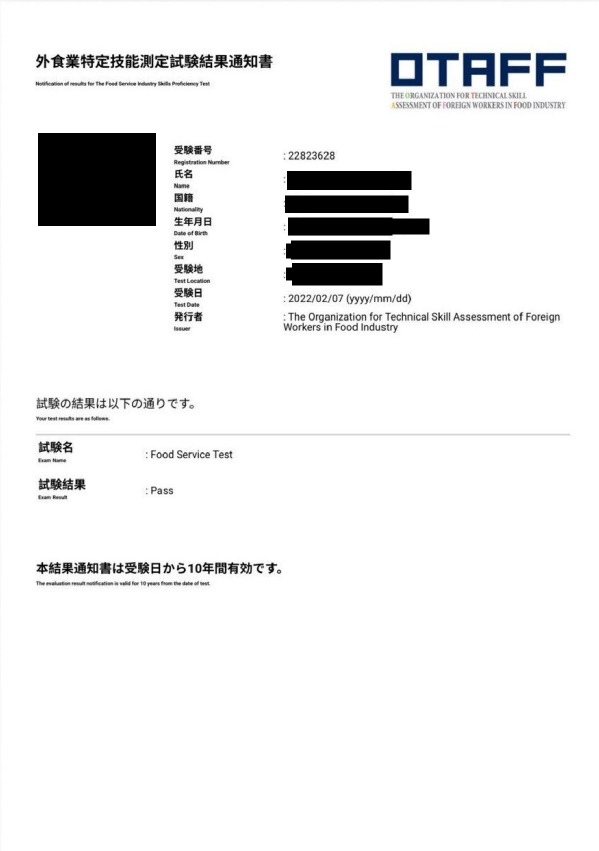
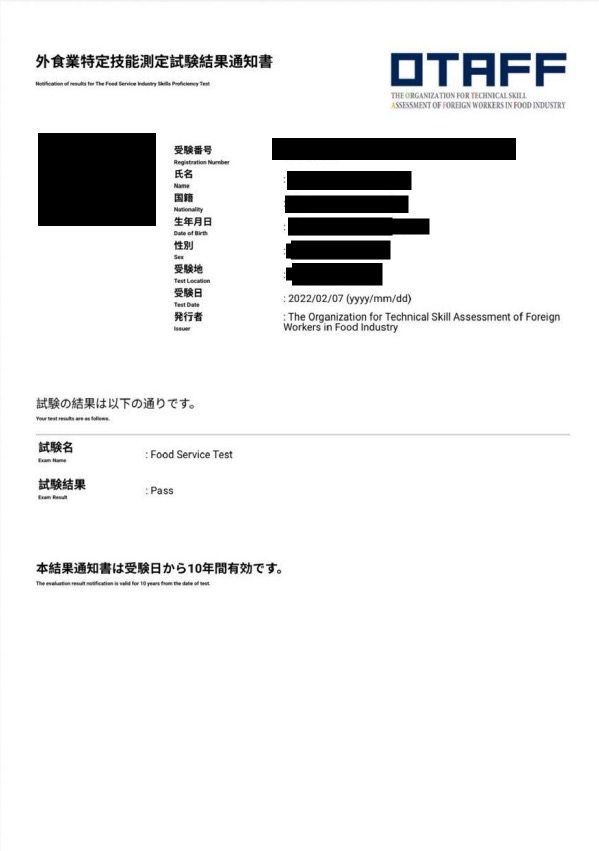
zinzai_dataup_test: 住民票スロット追加 ver.20260608.test.17 / cert_skill見本の受験番号を黒塗り

Changed region(s): [[0.4508, 0.1528, 0.8715, 0.2139]]

diff --git a/zinzai_dataup_test.html b/zinzai_dataup_test.html
@@ -124,7 +124,7 @@
   <div class="status-msg" id="statusMsg"></div>
 </div>
 <script>
-const VERSION = 'ver.20260528.test.16';
+const VERSION = 'ver.20260608.test.17';
 console.log('📄 zinzai_dataup_test.html', VERSION);
 
 // ===== 年度設定（毎年4-5月頃に更新する） =====
@@ -473,6 +473,25 @@ const DOC_SAMPLES = {
       zh: '📒 您本人保管的蓝色手册。遗失时可在年金事务所免费补发'
     }
   },
+  juminhyo: {
+    image: 'samples/juminhyo_sample.png',
+    help: {
+      ja: '世帯全員が記載された住民票（マイナンバーの記載は不要）',
+      en: 'Certificate of Residence listing all household members (without My Number)',
+      vi: 'Giấy chứng nhận cư trú ghi đầy đủ thành viên hộ gia đình (không có My Number)',
+      id: 'Surat Keterangan Domisili yang mencantumkan seluruh anggota keluarga (tanpa My Number)',
+      ko: '세대 전원이 기재된 주민표 (마이넘버 미기재)',
+      zh: '记载全体家庭成员的住民票（无需记载My Number）'
+    },
+    where: {
+      ja: '🏛 市区町村の役所、またはマイナンバーカードでコンビニで取得できます。発行から3か月以内のもの。',
+      en: '🏛 Obtain at your city/ward office, or at a convenience store with a My Number card. Issued within the last 3 months.',
+      vi: '🏛 Lấy tại văn phòng quận/thành phố, hoặc tại cửa hàng tiện lợi bằng thẻ My Number. Cấp trong vòng 3 tháng.',
+      id: '🏛 Diperoleh di kantor kota/distrik, atau di minimarket dengan kartu My Number. Diterbitkan dalam 3 bulan terakhir.',
+      ko: '🏛 시구정촌 관공서, 또는 마이넘버 카드로 편의점에서 발급. 발행 후 3개월 이내.',
+      zh: '🏛 可在市区町村政府办公室，或持My Number卡在便利店获取。需为3个月内开具。'
+    }
+  },
   embassy_rec: {
     image: 'samples/embassy_rec_sample.png',
     help: {
@@ -694,6 +713,7 @@ const ALL_DOCS = [
   {key:'transcript',tags:['成績証明書']},
   {key:'nenkin',tags:['年金手帳']},
   {key:'embassy_rec',tags:['大使館推薦票']},
+  {key:'juminhyo',tags:['住民票']},
   {key:'other',tags:[]},
 ];
 const REQUIRED_RULES = {
@@ -712,9 +732,9 @@ function isDocSkipped(doc) {
 }
 function getDocPattern() {
   const at = APP_TYPE;
-  if (at === '更新') return {zairyu_front:'required',zairyu_back:'required',passport:'required',cert_jp:'optional',cert_skill:'optional',cert_specialist:'hidden',tax_cert:'required',tax_payment:'required',withholding:'required',medical:'required',mugshot:'required',health_ins:'hidden',health_ins_cert:'hidden',graduation:'hidden',transcript:'hidden',nenkin:'hidden',embassy_rec:'optional',other:'optional'};
-  if (at === '変更') return {zairyu_front:'required',zairyu_back:'required',passport:'required',cert_jp:'required',cert_skill:'required',cert_specialist:'optional',tax_cert:'required',tax_payment:'required',withholding:'required',medical:'required',mugshot:'required',health_ins:IS_RYUGAKU?'required':'hidden',health_ins_cert:IS_RYUGAKU?'required':'hidden',graduation:IS_RYUGAKU?'required':'hidden',transcript:IS_RYUGAKU?'required':'hidden',nenkin:IS_RYUGAKU?'required':'hidden',embassy_rec:'optional',other:'optional'};
-  if (at === '認定') return {zairyu_front:'hidden',zairyu_back:'hidden',passport:'required',cert_jp:'required',cert_skill:'required',cert_specialist:'optional',tax_cert:'hidden',tax_payment:'hidden',withholding:'hidden',medical:'required',mugshot:'required',health_ins:IS_RYUGAKU?'required':'hidden',health_ins_cert:IS_RYUGAKU?'required':'hidden',graduation:IS_RYUGAKU?'required':'hidden',transcript:IS_RYUGAKU?'required':'hidden',nenkin:IS_RYUGAKU?'required':'hidden',embassy_rec:'optional',other:'optional'};
+  if (at === '更新') return {zairyu_front:'required',zairyu_back:'required',passport:'required',cert_jp:'optional',cert_skill:'optional',cert_specialist:'hidden',tax_cert:'required',tax_payment:'required',withholding:'required',medical:'required',mugshot:'required',health_ins:'hidden',health_ins_cert:'hidden',graduation:'hidden',transcript:'hidden',nenkin:'hidden',embassy_rec:'optional',juminhyo:'optional',other:'optional'};
+  if (at === '変更') return {zairyu_front:'required',zairyu_back:'required',passport:'required',cert_jp:'required',cert_skill:'required',cert_specialist:'optional',tax_cert:'required',tax_payment:'required',withholding:'required',medical:'required',mugshot:'required',health_ins:IS_RYUGAKU?'required':'hidden',health_ins_cert:IS_RYUGAKU?'required':'hidden',graduation:IS_RYUGAKU?'required':'hidden',transcript:IS_RYUGAKU?'required':'hidden',nenkin:IS_RYUGAKU?'required':'hidden',embassy_rec:'optional',juminhyo:'optional',other:'optional'};
+  if (at === '認定') return {zairyu_front:'hidden',zairyu_back:'hidden',passport:'required',cert_jp:'required',cert_skill:'required',cert_specialist:'optional',tax_cert:'hidden',tax_payment:'hidden',withholding:'hidden',medical:'required',mugshot:'required',health_ins:IS_RYUGAKU?'required':'hidden',health_ins_cert:IS_RYUGAKU?'required':'hidden',graduation:IS_RYUGAKU?'required':'hidden',transcript:IS_RYUGAKU?'required':'hidden',nenkin:IS_RYUGAKU?'required':'hidden',embassy_rec:'optional',juminhyo:'optional',other:'optional'};
   return Object.fromEntries(ALL_DOCS.map(d => [d.key,'optional']));
 }
 function getRequiredTags() {
@@ -760,18 +780,18 @@ function _initDocKeys(){
 _initDocKeys();
 
 const LANGS = {
-  ja:{label:'日本語',title:'書類アップロード',subtitle:'必要な書類の写真をアップロードしてください\n（不要な項目はスキップできます）',tapToAdd:'📷 タップして写真を追加',hint:'JPG / PNG / PDF',btnSubmit:'送信する',noFile:'未選択',selected:'選択済み ✓',msgSuccess:'✅ アップロード完了しました！\n担当者に届きました。',msgError:'❌ 送信に失敗しました。\nもう一度お試しください。',msgNoFile:'少なくとも1枚の写真を選択してください',docs:{zairyu_front:'在留カード（表）',zairyu_back:'在留カード（裏）',passport:'パスポート',cert_jp:'合格証（日本語）',cert_skill:'合格証（技能試験）',cert_specialist:'合格証（専門級・3級）',tax_payment:'納税証明書（令和7年度）',tax_cert:'課税証明書（令和7年度）',withholding:'源泉徴収票（令和6年分）',medical:'健康診断証',mugshot:'顔写真',health_ins:'健康保険証',health_ins_cert:'国民健康保険料納付証明書',graduation:'卒業証明書',transcript:'成績証明書',nenkin:'年金手帳',embassy_rec:'大使館推薦票',other:'その他'}},
+  ja:{label:'日本語',title:'書類アップロード',subtitle:'必要な書類の写真をアップロードしてください\n（不要な項目はスキップできます）',tapToAdd:'📷 タップして写真を追加',hint:'JPG / PNG / PDF',btnSubmit:'送信する',noFile:'未選択',selected:'選択済み ✓',msgSuccess:'✅ アップロード完了しました！\n担当者に届きました。',msgError:'❌ 送信に失敗しました。\nもう一度お試しください。',msgNoFile:'少なくとも1枚の写真を選択してください',docs:{zairyu_front:'在留カード（表）',zairyu_back:'在留カード（裏）',passport:'パスポート',cert_jp:'合格証（日本語）',cert_skill:'合格証（技能試験）',cert_specialist:'合格証（専門級・3級）',tax_payment:'納税証明書（令和7年度）',tax_cert:'課税証明書（令和7年度）',withholding:'源泉徴収票（令和6年分）',medical:'健康診断証',mugshot:'顔写真',health_ins:'健康保険証',health_ins_cert:'国民健康保険料納付証明書',graduation:'卒業証明書',transcript:'成績証明書',nenkin:'年金手帳',embassy_rec:'大使館推薦票',juminhyo:'住民票',other:'その他'}},
   en:{label:'English',title:'Document Upload',subtitle:'Please upload photos of required documents\n(You can skip items that are not needed)',tapToAdd:'📷 Tap to add photo',hint:'JPG / PNG / PDF',btnSubmit:'Submit',noFile:'Not selected',selected:'Selected ✓',msgSuccess:'✅ Upload complete!\nYour documents have been received.',msgError:'❌ Upload failed.\nPlease try again.',msgNoFile:'Please select at least one photo',docs:{zairyu_front:'Residence Card (Front)',zairyu_back:'Residence Card (Back)',passport:'Passport',cert_jp:'Certificate (Japanese)',cert_skill:'Certificate (Skills Test)',cert_specialist:'Certificate (Specialist/Level 3)',tax_payment:'Tax Payment Certificate (FY 2025)',tax_cert:'Taxation Certificate (FY 2025)',withholding:'Withholding Tax Statement (Year 2024)',medical:'Medical Certificate',mugshot:'Photo',health_ins:'Health Insurance Card',health_ins_cert:'National Health Insurance Payment Certificate',graduation:'Graduation Certificate',transcript:'Academic Transcript',nenkin:'Pension Booklet',embassy_rec:'Embassy Recommendation Letter',other:'Other'}},
-  vi:{label:'Tiếng Việt',title:'Tải lên tài liệu',subtitle:'Vui lòng tải ảnh các tài liệu cần thiết\n(Có thể bỏ qua các mục không cần thiết)',tapToAdd:'📷 Nhấn để thêm ảnh',hint:'JPG / PNG / PDF',btnSubmit:'Gửi',noFile:'Chưa chọn',selected:'Đã chọn ✓',msgSuccess:'✅ Tải lên thành công!\nTài liệu của bạn đã được nhận.',msgError:'❌ Tải lên thất bại.\nVui lòng thử lại.',msgNoFile:'Vui lòng chọn ít nhất một ảnh',docs:{zairyu_front:'Thẻ cư trú (Mặt trước)',zairyu_back:'Thẻ cư trú (Mặt sau)',passport:'Hộ chiếu',cert_jp:'Chứng chỉ (Tiếng Nhật)',cert_skill:'Chứng chỉ (Kỳ thi kỹ năng)',cert_specialist:'Chứng chỉ (Chuyên ngành/Cấp 3)',tax_payment:'Giấy chứng nhận nộp thuế (Năm 2025)',tax_cert:'Giấy chứng nhận thuế (Năm 2025)',withholding:'Phiếu khấu trừ thuế (Năm 2024)',medical:'Giấy khám sức khỏe',mugshot:'Ảnh',health_ins:'Thẻ bảo hiểm y tế',health_ins_cert:'Chứng nhận đóng bảo hiểm y tế',graduation:'Bằng tốt nghiệp',transcript:'Bảng điểm',nenkin:'Sổ hưu trí',embassy_rec:'大使館推薦票',other:'Khác'}},
-  id:{label:'Indonesia',title:'Unggah Dokumen',subtitle:'Silakan unggah foto dokumen yang diperlukan\n(Item yang tidak diperlukan dapat dilewati)',tapToAdd:'📷 Ketuk untuk menambah foto',hint:'JPG / PNG / PDF',btnSubmit:'Kirim',noFile:'Belum dipilih',selected:'Dipilih ✓',msgSuccess:'✅ Unggah berhasil!\nDokumen Anda telah diterima.',msgError:'❌ Unggah gagal.\nSilakan coba lagi.',msgNoFile:'Silakan pilih setidaknya satu foto',docs:{zairyu_front:'Kartu Izin Tinggal (Depan)',zairyu_back:'Kartu Izin Tinggal (Belakang)',passport:'Paspor',cert_jp:'Sertifikat (Bahasa Jepang)',cert_skill:'Sertifikat (Uji Keterampilan)',cert_specialist:'Sertifikat (Spesialis/Level 3)',tax_payment:'Bukti Pembayaran Pajak (Tahun 2025)',tax_cert:'Surat Keterangan Pajak (Tahun 2025)',withholding:'Slip Pemotongan Pajak (Tahun 2024)',medical:'Sertifikat Kesehatan',mugshot:'Foto',health_ins:'Kartu Asuransi Kesehatan',health_ins_cert:'Sertifikat Pembayaran Asuransi Kesehatan',graduation:'Ijazah',transcript:'Transkrip Nilai',nenkin:'Buku Pensiun',embassy_rec:'大使館推薦票',other:'Lainnya'}},
-  my:{label:'မြန်မာ',title:'စာရွက်စာတမ်းတင်ရန်',subtitle:'လိုအပ်သောစာရွက်စာတမ်းများ၏ဓာတ်ပုံတင်ပါ\n(မလိုအပ်သောအရာများကိုကျော်နိုင်သည်)',tapToAdd:'📷 ဓာတ်ပုံထည့်ရန်နှိပ်ပါ',hint:'JPG / PNG / PDF',btnSubmit:'ပေးပို့ရန်',noFile:'မရွေးချယ်ရသေး',selected:'ရွေးချယ်ပြီး ✓',msgSuccess:'✅ တင်ခြင်းအောင်မြင်သည်!\nသင့်စာရွက်စာတမ်းကိုလက်ခံရရှိပြီ။',msgError:'❌ တင်ခြင်းမအောင်မြင်ပါ။\nထပ်မံကြိုးစားပါ။',msgNoFile:'ဓာတ်ပုံတစ်ပုံရွေးချယ်ပါ',docs:{zairyu_front:'နေထိုင်ခွင့်ကတ် (ရှေ့ဘက်)',zairyu_back:'နေထိုင်ခွင့်ကတ် (နောက်ဘက်)',passport:'နိုင်ငံကူးလက်မှတ်',cert_jp:'လက်မှတ် (ဂျပန်ဘာသာ)',cert_skill:'လက်မှတ် (ကျွမ်းကျင်မှုစာမေးပွဲ)',cert_specialist:'လက်မှတ် (ကျွမ်းကျင်ရည်မှန်း/အဆင့် 3)',tax_payment:'အခွန်ပေးဆောင်မှုသက်သေခံ (၂၀၂၅)',tax_cert:'အခွန်သက်သေခံလက်မှတ် (၂၀၂၅)',withholding:'အခွန်နုတ်ယူသည့်ဖော်ပြချက် (၂၀၂၄)',medical:'ကျန်းမာရေးသက်သေခံ',mugshot:'ဒာတ်ပုံ',health_ins:'ကျန်မာရေးကာတ်',health_ins_cert:'မှတ်တမ်',graduation:'ဘွဲ့လက်မှတ်',transcript:'ကျောင်းမှတ်တမ်း',nenkin:'年金手帳',embassy_rec:'大使館推薦票',other:'အခြား'}},
-  ko:{label:'한국어',title:'서류 업로드',subtitle:'필요한 서류의 사진을 업로드해 주세요\n(불필요한 항목은 건너뛸 수 있습니다)',tapToAdd:'📷 탭하여 사진 추가',hint:'JPG / PNG / PDF',btnSubmit:'제출',noFile:'미선택',selected:'선택됨 ✓',msgSuccess:'✅ 업로드 완료!\n담당자에게 전달되었습니다.',msgError:'❌ 업로드 실패.\n다시 시도해 주세요.',msgNoFile:'사진을 최소 한 장 선택해 주세요',docs:{zairyu_front:'재류카드 (앞면)',zairyu_back:'재류카드 (뒷면)',passport:'여권',cert_jp:'합격증 (일본어)',cert_skill:'합격증 (기능시험)',cert_specialist:'합격증 (전문급·3급)',tax_payment:'납세증명서 (2025년도)',tax_cert:'과세증명서 (2025년도)',withholding:'원천징수영수증 (2024년분)',medical:'건강진단서',mugshot:'사진',health_ins:'건강보험증',health_ins_cert:'국민건강보험료 납부증명서',graduation:'졸업증명서',transcript:'성적증명서',nenkin:'연금수첩',embassy_rec:'大使館推薦票',other:'기타'}},
-  ne:{label:'नेपाली',title:'कागजात अपलोड',subtitle:'आवश्यक कागजातको फोटो अपलोड गर्नुहोस्\n(अनावश्यक वस्तुहरू छोड्न सकिन्छ)',tapToAdd:'📷 फोटो थप्न थिच्नुहोस्',hint:'JPG / PNG / PDF',btnSubmit:'पेश गर्नुहोस्',noFile:'छनोट गरिएको छैन',selected:'छनोट भयो ✓',msgSuccess:'✅ अपलोड सफल भयो!\nतपाईंको कागजात प्राप्त भयो।',msgError:'❌ अपलोड असफल भयो।\nपुनः प्रयास गर्नुहोस्।',msgNoFile:'कम्तीमा एउटा फोटो छनोट गर्नुहोस्',docs:{zairyu_front:'आवास कार्ड (अगाडि)',zairyu_back:'आवास कार्ड (पछाडि)',passport:'राहदानी',cert_jp:'प्रमाणपत्र (जापानी भाषा)',cert_skill:'प्रमाणपत्र (सीप परीक्षण)',cert_specialist:'प्रमाणपत्र (विशेषज्ञ/स्तर ३)',tax_payment:'कर तिरेको प्रमाणपत्र (आ.व. 2025)',tax_cert:'कर प्रमाणपत्र (आ.व. 2025)',withholding:'स्रोतमा कर कटौती विवरण (सन् 2024)',medical:'स्वास्थ्य परीक्षण प्रमाणपत्र',mugshot:'फोटो',health_ins:'स्वास्थ्य बिमा कार्ड',health_ins_cert:'राष्ट्रिय स्वास्थ्य बिमा भुक्तानी प्रमाणपत्र',graduation:'उपाधि',transcript:'अङ्कतालिका',nenkin:'年金手帳',embassy_rec:'大使館推薦票',other:'अन्य'}},
-  zh:{label:'中文',title:'文件上传',subtitle:'请上传所需文件的照片\n（不需要的项目可以跳过）',tapToAdd:'📷 点击添加照片',hint:'JPG / PNG / PDF',btnSubmit:'提交',noFile:'未选择',selected:'已选择 ✓',msgSuccess:'✅ 上传成功！\n您的文件已收到。',msgError:'❌ 上传失败。\n请重试。',msgNoFile:'请至少选择一张照片',docs:{zairyu_front:'居留卡（正面）',zairyu_back:'居留卡（背面）',passport:'护照',cert_jp:'合格证（日语）',cert_skill:'合格证（技能考试）',cert_specialist:'合格证（专项级·3级）',tax_payment:'纳税证明（令和7年度）',tax_cert:'课税证明（令和7年度）',withholding:'扣缴凭证（令和6年）',medical:'健康诊断证明',mugshot:'照片',health_ins:'健康保险证',health_ins_cert:'国民健康保险缴费证明',graduation:'毕业证明书',transcript:'成绩单',nenkin:'年金手帳',embassy_rec:'大使館推薦票',other:'其他'}},
-  th:{label:'ไทย',title:'อัปโหลดเอกสาร',subtitle:'กรุณาอัปโหลดรูปภาพเอกสารที่จำเป็น\n(สามารถข้ามรายการที่ไม่จำเป็นได้)',tapToAdd:'📷 แตะเพื่อเพิ่มรูปภาพ',hint:'JPG / PNG / PDF',btnSubmit:'ส่ง',noFile:'ยังไม่ได้เลือก',selected:'เลือกแล้ว ✓',msgSuccess:'✅ อัปโหลดสำเร็จ!\nได้รับเอกสารของคุณแล้ว',msgError:'❌ อัปโหลดล้มเหลว\nกรุณาลองใหม่อีกครั้ง',msgNoFile:'กรุณาเลือกรูปภาพอย่างน้อยหนึ่งภาพ',docs:{zairyu_front:'บัตรถิ่นที่อยู่ (ด้านหน้า)',zairyu_back:'บัตรถิ่นที่อยู่ (ด้านหลัง)',passport:'หนังสือเดินทาง',cert_jp:'ใบรับรอง (ภาษาญี่ปุ่น)',cert_skill:'ใบรับรอง (การสอบทักษะ)',cert_specialist:'ใบรับรอง (ผู้เชี่ยวชาญ/ระดับ 3)',tax_payment:'ใบรับรองการชำระภาษี (ปี 2025)',tax_cert:'ใบรับรองภาษี (ปี 2025)',withholding:'ใบหักภาษี ณ ที่จ่าย (ปี 2024)',medical:'ใบรับรองสุขภาพ',mugshot:'รูปถ่าย',health_ins:'บัตรประกันสุขภาพ',health_ins_cert:'ใบรับรองการชำระประกันสุขภาพ',graduation:'ใบประกาศนียบัตร',transcript:'ผลการเรียน',nenkin:'สมุดบัญชีเงินบำนาญชรา',embassy_rec:'大使館推薦票',other:'อื่นๆ'}},
-  km:{label:'ខ្មែរ',title:'បង្ហោះឯកសារ',subtitle:'សូមបង្ហោះរូបថតឯកសារដែលត្រូវការ\n(អ្នកអាចរំលងធាតុដែលមិនចាំបាច់)',tapToAdd:'📷 ចុចដើម្បីបន្ថែមរូបថត',hint:'JPG / PNG / PDF',btnSubmit:'បញ្ជូន',noFile:'មិនទាន់ជ្រើសរើស',selected:'បានជ្រើសរើស ✓',msgSuccess:'✅ បង្ហោះបានជោគជ័យ!\nឯកសាររបស់អ្នកត្រូវបានទទួល។',msgError:'❌ បង្ហោះបានបរាជ័យ។\nសូមព្យាយាមម្តងទៀត។',msgNoFile:'សូមជ្រើសរើសរូបថតយ៉ាងហោចណាស់មួយ',docs:{zairyu_front:'កាតស្នាក់នៅ (ខាងមុខ)',zairyu_back:'កាតស្នាក់នៅ (ខាងក្រោយ)',passport:'លិខិតឆ្លងដែន',cert_jp:'វិញ្ញាបនបត្រ (ភាសាជប៉ុន)',cert_skill:'វិញ្ញាបនបត្រ (ការប្រឡងជំនាញ)',cert_specialist:'វិញ្ញាបនបត្រ (ថ្នាក់ជំនាញ/កម្រិត 3)',tax_payment:'វិញ្ញាបនបត្របង់ពន្ធ (2025)',tax_cert:'វិញ្ញាបនបត្រពន្ធ (2025)',withholding:'លិខិតកាត់ពន្ធ (2024)',medical:'វិញ្ញាបនបត្រសុខភាព',mugshot:'រូបថត',health_ins:'កាតប្រកញសុខភាព',health_ins_cert:'វិញ្ញាបនបត្របង់ប្រកញសុខ',graduation:'សញ្ញាបត្រ',transcript:'លត្តផល',nenkin:'年金手帳',embassy_rec:'大使館推薦票',other:'ផ្សេងទៀត'}},
-  mn:{label:'Монгол',title:'Баримт бичиг байршуулах',subtitle:'Шаардлагатай баримт бичгийн зургийг байршуулна уу\n(Шаардлагагүй зүйлийг алгасаж болно)',tapToAdd:'📷 Зураг нэмэхийн тулд дарна уу',hint:'JPG / PNG / PDF',btnSubmit:'Илгээх',noFile:'Сонгоогүй',selected:'Сонгосон ✓',msgSuccess:'✅ Байршуулалт амжилттай!\nТаны баримт бичиг хүлээн авагдлаа.',msgError:'❌ Илгээхэд алдаа гарлаа.\nДахин оролдоно уу.',msgNoFile:'Дор хаяж нэг зураг сонгоно уу',docs:{zairyu_front:'Оршин суух карт (Урд тал)',zairyu_back:'Оршин суух карт (Арын тал)',passport:'Паспорт',cert_jp:'Гэрчилгээ (Япон хэл)',cert_skill:'Гэрчилгээ (Ур чадварын шалгалт)',cert_specialist:'Гэрчилгээ (Мэргэжлийн/3-р түвшин)',tax_payment:'Татвар төлсний гэрчилгээ (2025)',tax_cert:'Татварын гэрчилгээ (2025)',withholding:'Татварын тодорхойлолт (2024)',medical:'Эрүүл мэндийн гэрчилгээ',mugshot:'Зураг',health_ins:'Даатгалын карт',health_ins_cert:'Даатгалын төлбөрийн тодорхойлолт',graduation:'Дипломын гэрчилгээ',transcript:'Дүнгийн гэрчилгээ',nenkin:'Тэтгэврийн дэвтэр',embassy_rec:'大使館推薦票',other:'Бусад'}},
-  si:{label:'සිංහල',title:'ලේඛන උඩුගත කිරීම',subtitle:'අවශ්ය ලේඛනවල ඡායාරූප උඩුගත කරන්න\n(අනවශ්ය අයිතම මඟ හැරිය හැකිය)',tapToAdd:'📷 ඡායාරූප එකතු කිරීමට තට්ටු කරන්න',hint:'JPG / PNG / PDF',btnSubmit:'යොමු කරන්න',noFile:'තෝරා නැත',selected:'තෝරා ඇත ✓',msgSuccess:'✅ උඩුගත කිරීම සාර්ථකයි!\nඔබේ ලේඛන ලැබී ඇත.',msgError:'❌ උඩුගත කිරීම අසාර්ථකයි.\nනැවත උත්සාහ කරන්න.',msgNoFile:'අවම වශයෙන් ඡායාරූපයක් තෝරන්න',docs:{zairyu_front:'පදිංචිකාර්ඩ් (ඉදිරිපස)',zairyu_back:'පදිංචිකාර්ඩ් (පිටුපස)',passport:'ගමන් බලපත්රය',cert_jp:'සහතිකය (ජපන් භාෂාව)',cert_skill:'සහතිකය (කුසලතා විභාගය)',cert_specialist:'සහතිකය (විශේෂඥ/මට්ටම 3)',tax_payment:'බදු ගෙවීමේ සහතිකය (2025)',tax_cert:'බදු සහතිකය (2025)',withholding:'රඳවා ගත් බදු ප්රකාශය (2024)',medical:'වෛද්ය සහතිකය',mugshot:'ජායාරූපය',health_ins:'සෞඛ්ය රක්ෂණ කාඩ්පත',health_ins_cert:'ජාතික සෞඛ්ය රක්ෂණ ගෙවීම් සහතිකය',graduation:'උපාධි සහතිකය',transcript:'ශ්රේණි ලිපිය',nenkin:'විශ්රාම වේතන පොත',embassy_rec:'大使館推薦票',other:'වෙනත්'}},
+  vi:{label:'Tiếng Việt',title:'Tải lên tài liệu',subtitle:'Vui lòng tải ảnh các tài liệu cần thiết\n(Có thể bỏ qua các mục không cần thiết)',tapToAdd:'📷 Nhấn để thêm ảnh',hint:'JPG / PNG / PDF',btnSubmit:'Gửi',noFile:'Chưa chọn',selected:'Đã chọn ✓',msgSuccess:'✅ Tải lên thành công!\nTài liệu của bạn đã được nhận.',msgError:'❌ Tải lên thất bại.\nVui lòng thử lại.',msgNoFile:'Vui lòng chọn ít nhất một ảnh',docs:{zairyu_front:'Thẻ cư trú (Mặt trước)',zairyu_back:'Thẻ cư trú (Mặt sau)',passport:'Hộ chiếu',cert_jp:'Chứng chỉ (Tiếng Nhật)',cert_skill:'Chứng chỉ (Kỳ thi kỹ năng)',cert_specialist:'Chứng chỉ (Chuyên ngành/Cấp 3)',tax_payment:'Giấy chứng nhận nộp thuế (Năm 2025)',tax_cert:'Giấy chứng nhận thuế (Năm 2025)',withholding:'Phiếu khấu trừ thuế (Năm 2024)',medical:'Giấy khám sức khỏe',mugshot:'Ảnh',health_ins:'Thẻ bảo hiểm y tế',health_ins_cert:'Chứng nhận đóng bảo hiểm y tế',graduation:'Bằng tốt nghiệp',transcript:'Bảng điểm',nenkin:'Sổ hưu trí',embassy_rec:'大使館推薦票',juminhyo:'住民票',other:'Khác'}},
+  id:{label:'Indonesia',title:'Unggah Dokumen',subtitle:'Silakan unggah foto dokumen yang diperlukan\n(Item yang tidak diperlukan dapat dilewati)',tapToAdd:'📷 Ketuk untuk menambah foto',hint:'JPG / PNG / PDF',btnSubmit:'Kirim',noFile:'Belum dipilih',selected:'Dipilih ✓',msgSuccess:'✅ Unggah berhasil!\nDokumen Anda telah diterima.',msgError:'❌ Unggah gagal.\nSilakan coba lagi.',msgNoFile:'Silakan pilih setidaknya satu foto',docs:{zairyu_front:'Kartu Izin Tinggal (Depan)',zairyu_back:'Kartu Izin Tinggal (Belakang)',passport:'Paspor',cert_jp:'Sertifikat (Bahasa Jepang)',cert_skill:'Sertifikat (Uji Keterampilan)',cert_specialist:'Sertifikat (Spesialis/Level 3)',tax_payment:'Bukti Pembayaran Pajak (Tahun 2025)',tax_cert:'Surat Keterangan Pajak (Tahun 2025)',withholding:'Slip Pemotongan Pajak (Tahun 2024)',medical:'Sertifikat Kesehatan',mugshot:'Foto',health_ins:'Kartu Asuransi Kesehatan',health_ins_cert:'Sertifikat Pembayaran Asuransi Kesehatan',graduation:'Ijazah',transcript:'Transkrip Nilai',nenkin:'Buku Pensiun',embassy_rec:'大使館推薦票',juminhyo:'住民票',other:'Lainnya'}},
+  my:{label:'မြန်မာ',title:'စာရွက်စာတမ်းတင်ရန်',subtitle:'လိုအပ်သောစာရွက်စာတမ်းများ၏ဓာတ်ပုံတင်ပါ\n(မလိုအပ်သောအရာများကိုကျော်နိုင်သည်)',tapToAdd:'📷 ဓာတ်ပုံထည့်ရန်နှိပ်ပါ',hint:'JPG / PNG / PDF',btnSubmit:'ပေးပို့ရန်',noFile:'မရွေးချယ်ရသေး',selected:'ရွေးချယ်ပြီး ✓',msgSuccess:'✅ တင်ခြင်းအောင်မြင်သည်!\nသင့်စာရွက်စာတမ်းကိုလက်ခံရရှိပြီ။',msgError:'❌ တင်ခြင်းမအောင်မြင်ပါ။\nထပ်မံကြိုးစားပါ။',msgNoFile:'ဓာတ်ပုံတစ်ပုံရွေးချယ်ပါ',docs:{zairyu_front:'နေထိုင်ခွင့်ကတ် (ရှေ့ဘက်)',zairyu_back:'နေထိုင်ခွင့်ကတ် (နောက်ဘက်)',passport:'နိုင်ငံကူးလက်မှတ်',cert_jp:'လက်မှတ် (ဂျပန်ဘာသာ)',cert_skill:'လက်မှတ် (ကျွမ်းကျင်မှုစာမေးပွဲ)',cert_specialist:'လက်မှတ် (ကျွမ်းကျင်ရည်မှန်း/အဆင့် 3)',tax_payment:'အခွန်ပေးဆောင်မှုသက်သေခံ (၂၀၂၅)',tax_cert:'အခွန်သက်သေခံလက်မှတ် (၂၀၂၅)',withholding:'အခွန်နုတ်ယူသည့်ဖော်ပြချက် (၂၀၂၄)',medical:'ကျန်းမာရေးသက်သေခံ',mugshot:'ဒာတ်ပုံ',health_ins:'ကျန်မာရေးကာတ်',health_ins_cert:'မှတ်တမ်',graduation:'ဘွဲ့လက်မှတ်',transcript:'ကျောင်းမှတ်တမ်း',nenkin:'年金手帳',embassy_rec:'大使館推薦票',juminhyo:'住民票',other:'အခြား'}},
+  ko:{label:'한국어',title:'서류 업로드',subtitle:'필요한 서류의 사진을 업로드해 주세요\n(불필요한 항목은 건너뛸 수 있습니다)',tapToAdd:'📷 탭하여 사진 추가',hint:'JPG / PNG / PDF',btnSubmit:'제출',noFile:'미선택',selected:'선택됨 ✓',msgSuccess:'✅ 업로드 완료!\n담당자에게 전달되었습니다.',msgError:'❌ 업로드 실패.\n다시 시도해 주세요.',msgNoFile:'사진을 최소 한 장 선택해 주세요',docs:{zairyu_front:'재류카드 (앞면)',zairyu_back:'재류카드 (뒷면)',passport:'여권',cert_jp:'합격증 (일본어)',cert_skill:'합격증 (기능시험)',cert_specialist:'합격증 (전문급·3급)',tax_payment:'납세증명서 (2025년도)',tax_cert:'과세증명서 (2025년도)',withholding:'원천징수영수증 (2024년분)',medical:'건강진단서',mugshot:'사진',health_ins:'건강보험증',health_ins_cert:'국민건강보험료 납부증명서',graduation:'졸업증명서',transcript:'성적증명서',nenkin:'연금수첩',embassy_rec:'大使館推薦票',juminhyo:'住民票',other:'기타'}},
+  ne:{label:'नेपाली',title:'कागजात अपलोड',subtitle:'आवश्यक कागजातको फोटो अपलोड गर्नुहोस्\n(अनावश्यक वस्तुहरू छोड्न सकिन्छ)',tapToAdd:'📷 फोटो थप्न थिच्नुहोस्',hint:'JPG / PNG / PDF',btnSubmit:'पेश गर्नुहोस्',noFile:'छनोट गरिएको छैन',selected:'छनोट भयो ✓',msgSuccess:'✅ अपलोड सफल भयो!\nतपाईंको कागजात प्राप्त भयो।',msgError:'❌ अपलोड असफल भयो।\nपुनः प्रयास गर्नुहोस्।',msgNoFile:'कम्तीमा एउटा फोटो छनोट गर्नुहोस्',docs:{zairyu_front:'आवास कार्ड (अगाडि)',zairyu_back:'आवास कार्ड (पछाडि)',passport:'राहदानी',cert_jp:'प्रमाणपत्र (जापानी भाषा)',cert_skill:'प्रमाणपत्र (सीप परीक्षण)',cert_specialist:'प्रमाणपत्र (विशेषज्ञ/स्तर ३)',tax_payment:'कर तिरेको प्रमाणपत्र (आ.व. 2025)',tax_cert:'कर प्रमाणपत्र (आ.व. 2025)',withholding:'स्रोतमा कर कटौती विवरण (सन् 2024)',medical:'स्वास्थ्य परीक्षण प्रमाणपत्र',mugshot:'फोटो',health_ins:'स्वास्थ्य बिमा कार्ड',health_ins_cert:'राष्ट्रिय स्वास्थ्य बिमा भुक्तानी प्रमाणपत्र',graduation:'उपाधि',transcript:'अङ्कतालिका',nenkin:'年金手帳',embassy_rec:'大使館推薦票',juminhyo:'住民票',other:'अन्य'}},
+  zh:{label:'中文',title:'文件上传',subtitle:'请上传所需文件的照片\n（不需要的项目可以跳过）',tapToAdd:'📷 点击添加照片',hint:'JPG / PNG / PDF',btnSubmit:'提交',noFile:'未选择',selected:'已选择 ✓',msgSuccess:'✅ 上传成功！\n您的文件已收到。',msgError:'❌ 上传失败。\n请重试。',msgNoFile:'请至少选择一张照片',docs:{zairyu_front:'居留卡（正面）',zairyu_back:'居留卡（背面）',passport:'护照',cert_jp:'合格证（日语）',cert_skill:'合格证（技能考试）',cert_specialist:'合格证（专项级·3级）',tax_payment:'纳税证明（令和7年度）',tax_cert:'课税证明（令和7年度）',withholding:'扣缴凭证（令和6年）',medical:'健康诊断证明',mugshot:'照片',health_ins:'健康保险证',health_ins_cert:'国民健康保险缴费证明',graduation:'毕业证明书',transcript:'成绩单',nenkin:'年金手帳',embassy_rec:'大使館推薦票',juminhyo:'住民票',other:'其他'}},
+  th:{label:'ไทย',title:'อัปโหลดเอกสาร',subtitle:'กรุณาอัปโหลดรูปภาพเอกสารที่จำเป็น\n(สามารถข้ามรายการที่ไม่จำเป็นได้)',tapToAdd:'📷 แตะเพื่อเพิ่มรูปภาพ',hint:'JPG / PNG / PDF',btnSubmit:'ส่ง',noFile:'ยังไม่ได้เลือก',selected:'เลือกแล้ว ✓',msgSuccess:'✅ อัปโหลดสำเร็จ!\nได้รับเอกสารของคุณแล้ว',msgError:'❌ อัปโหลดล้มเหลว\nกรุณาลองใหม่อีกครั้ง',msgNoFile:'กรุณาเลือกรูปภาพอย่างน้อยหนึ่งภาพ',docs:{zairyu_front:'บัตรถิ่นที่อยู่ (ด้านหน้า)',zairyu_back:'บัตรถิ่นที่อยู่ (ด้านหลัง)',passport:'หนังสือเดินทาง',cert_jp:'ใบรับรอง (ภาษาญี่ปุ่น)',cert_skill:'ใบรับรอง (การสอบทักษะ)',cert_specialist:'ใบรับรอง (ผู้เชี่ยวชาญ/ระดับ 3)',tax_payment:'ใบรับรองการชำระภาษี (ปี 2025)',tax_cert:'ใบรับรองภาษี (ปี 2025)',withholding:'ใบหักภาษี ณ ที่จ่าย (ปี 2024)',medical:'ใบรับรองสุขภาพ',mugshot:'รูปถ่าย',health_ins:'บัตรประกันสุขภาพ',health_ins_cert:'ใบรับรองการชำระประกันสุขภาพ',graduation:'ใบประกาศนียบัตร',transcript:'ผลการเรียน',nenkin:'สมุดบัญชีเงินบำนาญชรา',embassy_rec:'大使館推薦票',juminhyo:'住民票',other:'อื่นๆ'}},
+  km:{label:'ខ្មែរ',title:'បង្ហោះឯកសារ',subtitle:'សូមបង្ហោះរូបថតឯកសារដែលត្រូវការ\n(អ្នកអាចរំលងធាតុដែលមិនចាំបាច់)',tapToAdd:'📷 ចុចដើម្បីបន្ថែមរូបថត',hint:'JPG / PNG / PDF',btnSubmit:'បញ្ជូន',noFile:'មិនទាន់ជ្រើសរើស',selected:'បានជ្រើសរើស ✓',msgSuccess:'✅ បង្ហោះបានជោគជ័យ!\nឯកសាររបស់អ្នកត្រូវបានទទួល។',msgError:'❌ បង្ហោះបានបរាជ័យ។\nសូមព្យាយាមម្តងទៀត។',msgNoFile:'សូមជ្រើសរើសរូបថតយ៉ាងហោចណាស់មួយ',docs:{zairyu_front:'កាតស្នាក់នៅ (ខាងមុខ)',zairyu_back:'កាតស្នាក់នៅ (ខាងក្រោយ)',passport:'លិខិតឆ្លងដែន',cert_jp:'វិញ្ញាបនបត្រ (ភាសាជប៉ុន)',cert_skill:'វិញ្ញាបនបត្រ (ការប្រឡងជំនាញ)',cert_specialist:'វិញ្ញាបនបត្រ (ថ្នាក់ជំនាញ/កម្រិត 3)',tax_payment:'វិញ្ញាបនបត្របង់ពន្ធ (2025)',tax_cert:'វិញ្ញាបនបត្រពន្ធ (2025)',withholding:'លិខិតកាត់ពន្ធ (2024)',medical:'វិញ្ញាបនបត្រសុខភាព',mugshot:'រូបថត',health_ins:'កាតប្រកញសុខភាព',health_ins_cert:'វិញ្ញាបនបត្របង់ប្រកញសុខ',graduation:'សញ្ញាបត្រ',transcript:'លត្តផល',nenkin:'年金手帳',embassy_rec:'大使館推薦票',juminhyo:'住民票',other:'ផ្សេងទៀត'}},
+  mn:{label:'Монгол',title:'Баримт бичиг байршуулах',subtitle:'Шаардлагатай баримт бичгийн зургийг байршуулна уу\n(Шаардлагагүй зүйлийг алгасаж болно)',tapToAdd:'📷 Зураг нэмэхийн тулд дарна уу',hint:'JPG / PNG / PDF',btnSubmit:'Илгээх',noFile:'Сонгоогүй',selected:'Сонгосон ✓',msgSuccess:'✅ Байршуулалт амжилттай!\nТаны баримт бичиг хүлээн авагдлаа.',msgError:'❌ Илгээхэд алдаа гарлаа.\nДахин оролдоно уу.',msgNoFile:'Дор хаяж нэг зураг сонгоно уу',docs:{zairyu_front:'Оршин суух карт (Урд тал)',zairyu_back:'Оршин суух карт (Арын тал)',passport:'Паспорт',cert_jp:'Гэрчилгээ (Япон хэл)',cert_skill:'Гэрчилгээ (Ур чадварын шалгалт)',cert_specialist:'Гэрчилгээ (Мэргэжлийн/3-р түвшин)',tax_payment:'Татвар төлсний гэрчилгээ (2025)',tax_cert:'Татварын гэрчилгээ (2025)',withholding:'Татварын тодорхойлолт (2024)',medical:'Эрүүл мэндийн гэрчилгээ',mugshot:'Зураг',health_ins:'Даатгалын карт',health_ins_cert:'Даатгалын төлбөрийн тодорхойлолт',graduation:'Дипломын гэрчилгээ',transcript:'Дүнгийн гэрчилгээ',nenkin:'Тэтгэврийн дэвтэр',embassy_rec:'大使館推薦票',juminhyo:'住民票',other:'Бусад'}},
+  si:{label:'සිංහල',title:'ලේඛන උඩුගත කිරීම',subtitle:'අවශ්ය ලේඛනවල ඡායාරූප උඩුගත කරන්න\n(අනවශ්ය අයිතම මඟ හැරිය හැකිය)',tapToAdd:'📷 ඡායාරූප එකතු කිරීමට තට්ටු කරන්න',hint:'JPG / PNG / PDF',btnSubmit:'යොමු කරන්න',noFile:'තෝරා නැත',selected:'තෝරා ඇත ✓',msgSuccess:'✅ උඩුගත කිරීම සාර්ථකයි!\nඔබේ ලේඛන ලැබී ඇත.',msgError:'❌ උඩුගත කිරීම අසාර්ථකයි.\nනැවත උත්සාහ කරන්න.',msgNoFile:'අවම වශයෙන් ඡායාරූපයක් තෝරන්න',docs:{zairyu_front:'පදිංචිකාර්ඩ් (ඉදිරිපස)',zairyu_back:'පදිංචිකාර්ඩ් (පිටුපස)',passport:'ගමන් බලපත්රය',cert_jp:'සහතිකය (ජපන් භාෂාව)',cert_skill:'සහතිකය (කුසලතා විභාගය)',cert_specialist:'සහතිකය (විශේෂඥ/මට්ටම 3)',tax_payment:'බදු ගෙවීමේ සහතිකය (2025)',tax_cert:'බදු සහතිකය (2025)',withholding:'රඳවා ගත් බදු ප්රකාශය (2024)',medical:'වෛද්ය සහතිකය',mugshot:'ජායාරූපය',health_ins:'සෞඛ්ය රක්ෂණ කාඩ්පත',health_ins_cert:'ජාතික සෞඛ්ය රක්ෂණ ගෙවීම් සහතිකය',graduation:'උපාධි සහතිකය',transcript:'ශ්රේණි ලිපිය',nenkin:'විශ්රාම වේතන පොත',embassy_rec:'大使館推薦票',juminhyo:'住民票',other:'වෙනත්'}},
 };
 const LANG_ORDER = ['ja','en','vi','id','my','ko','ne','zh','th','km','mn','si'];
 let currentLang = 'ja';
